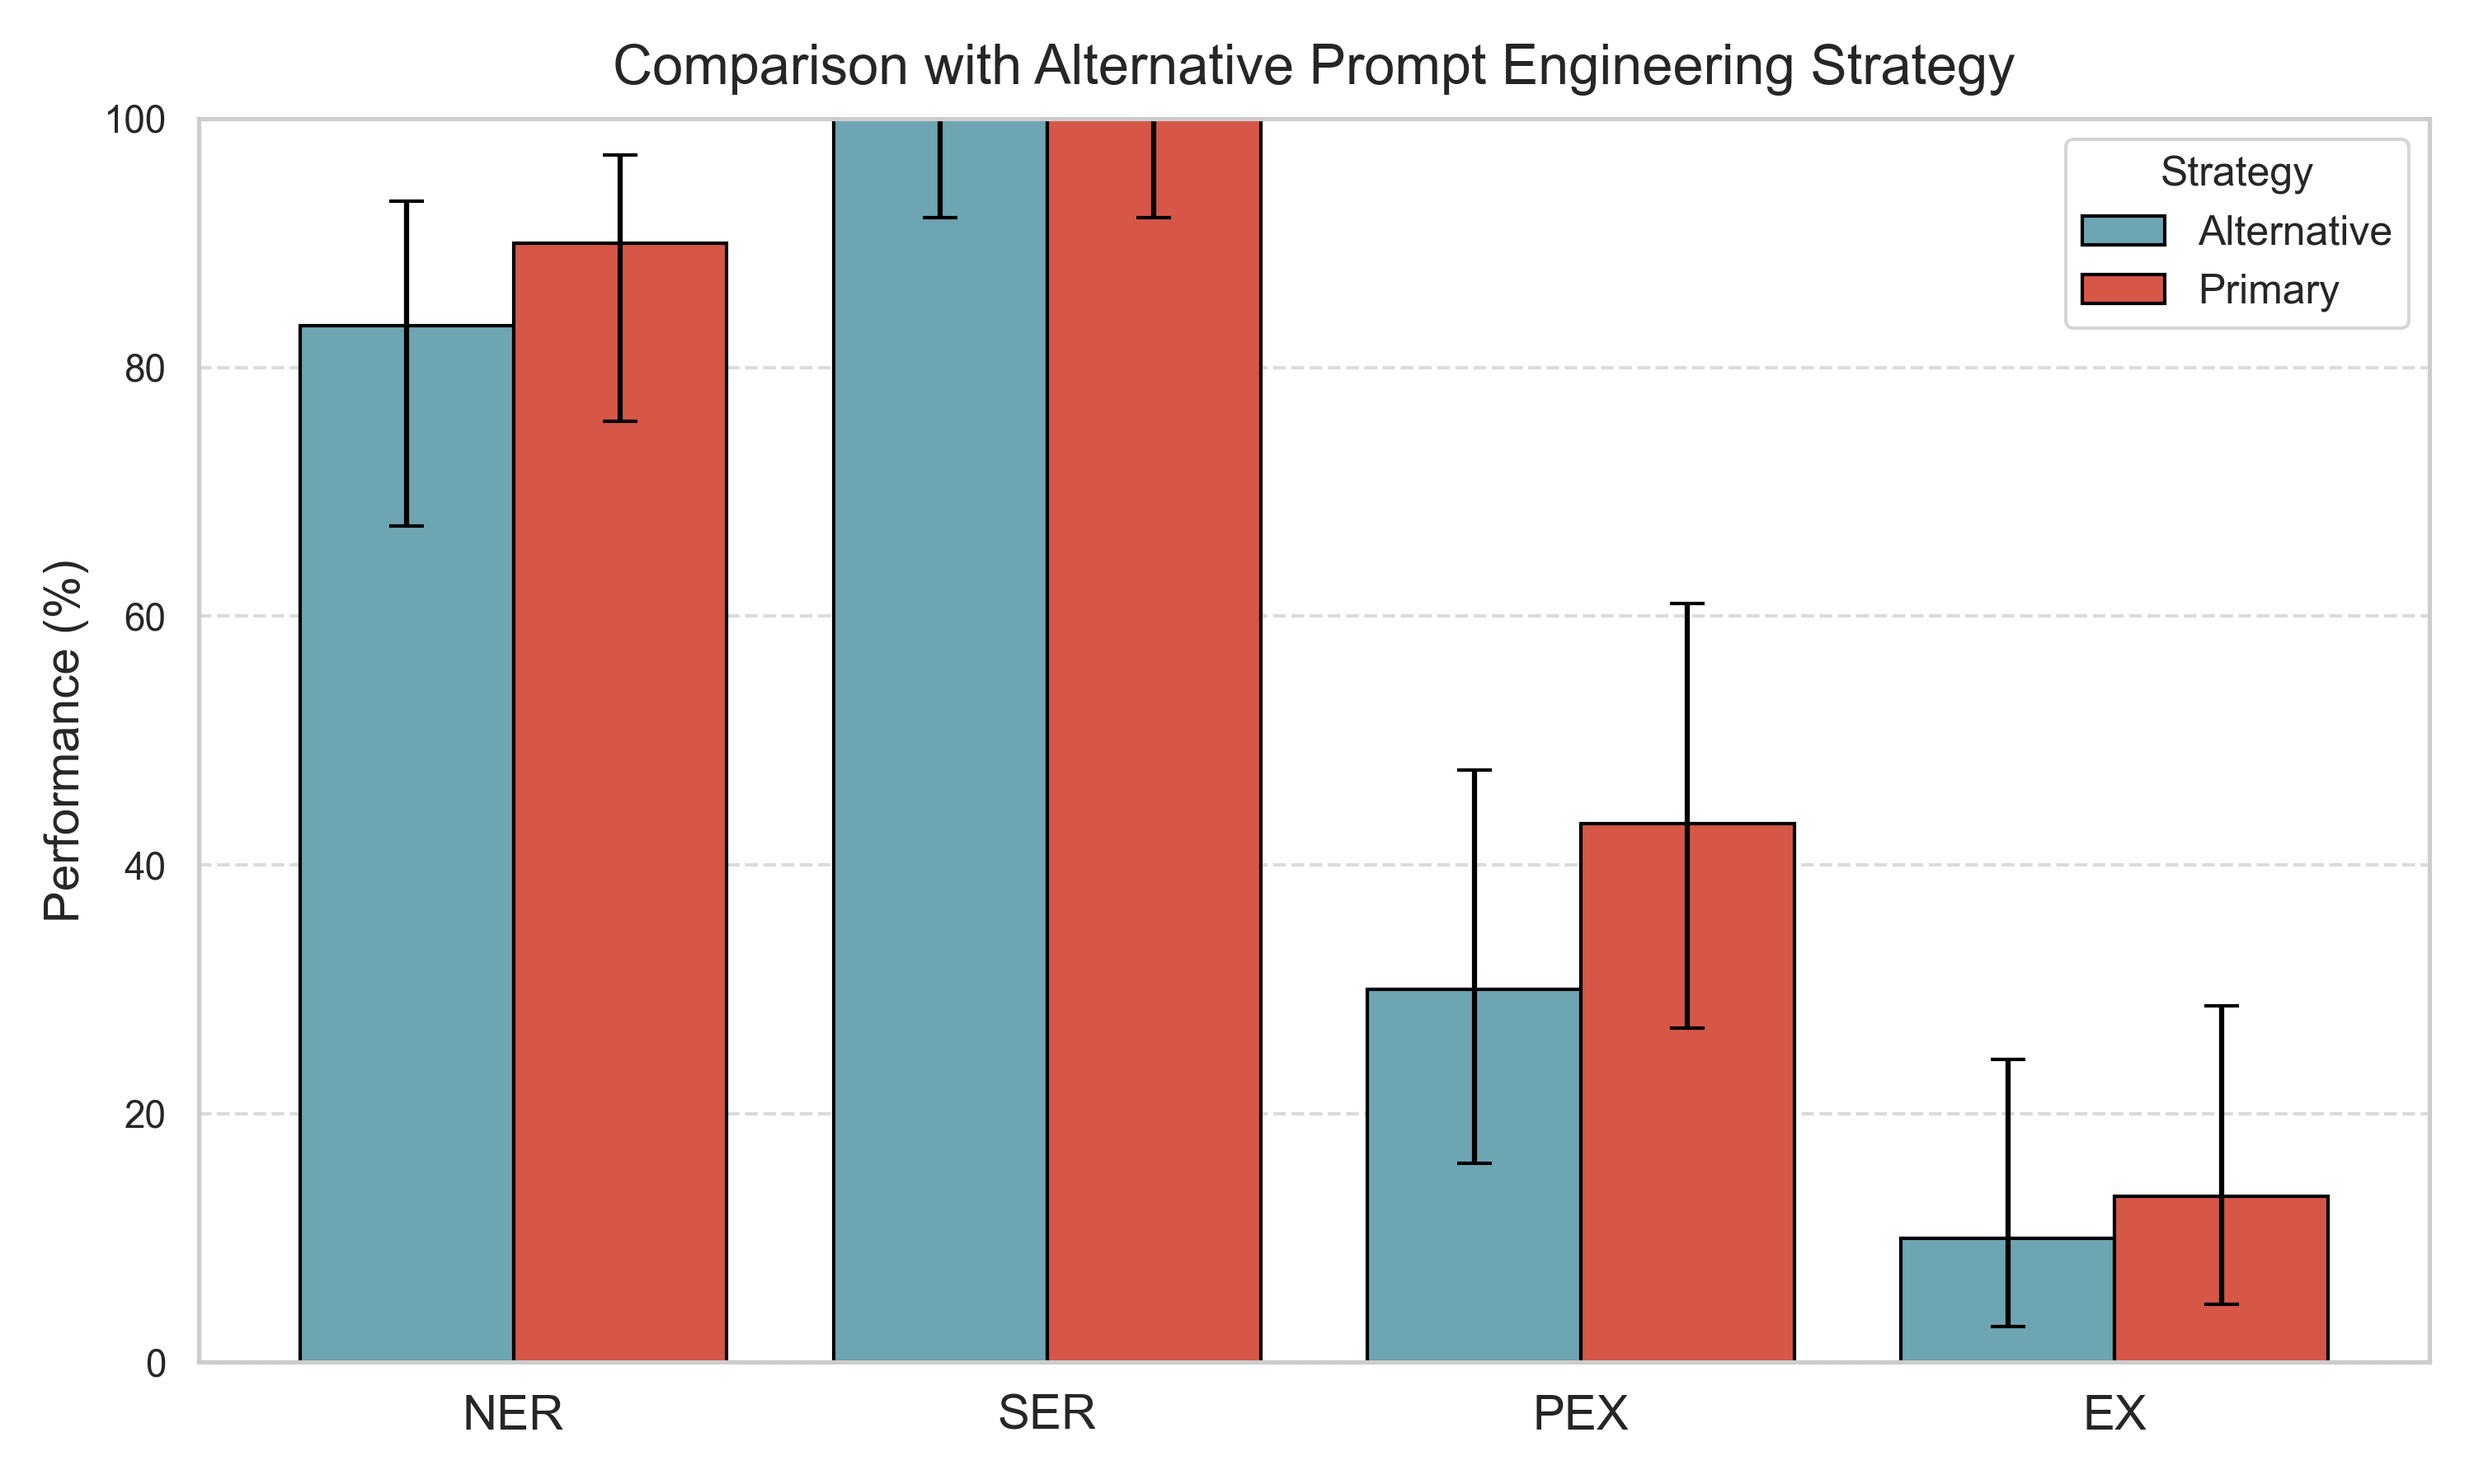
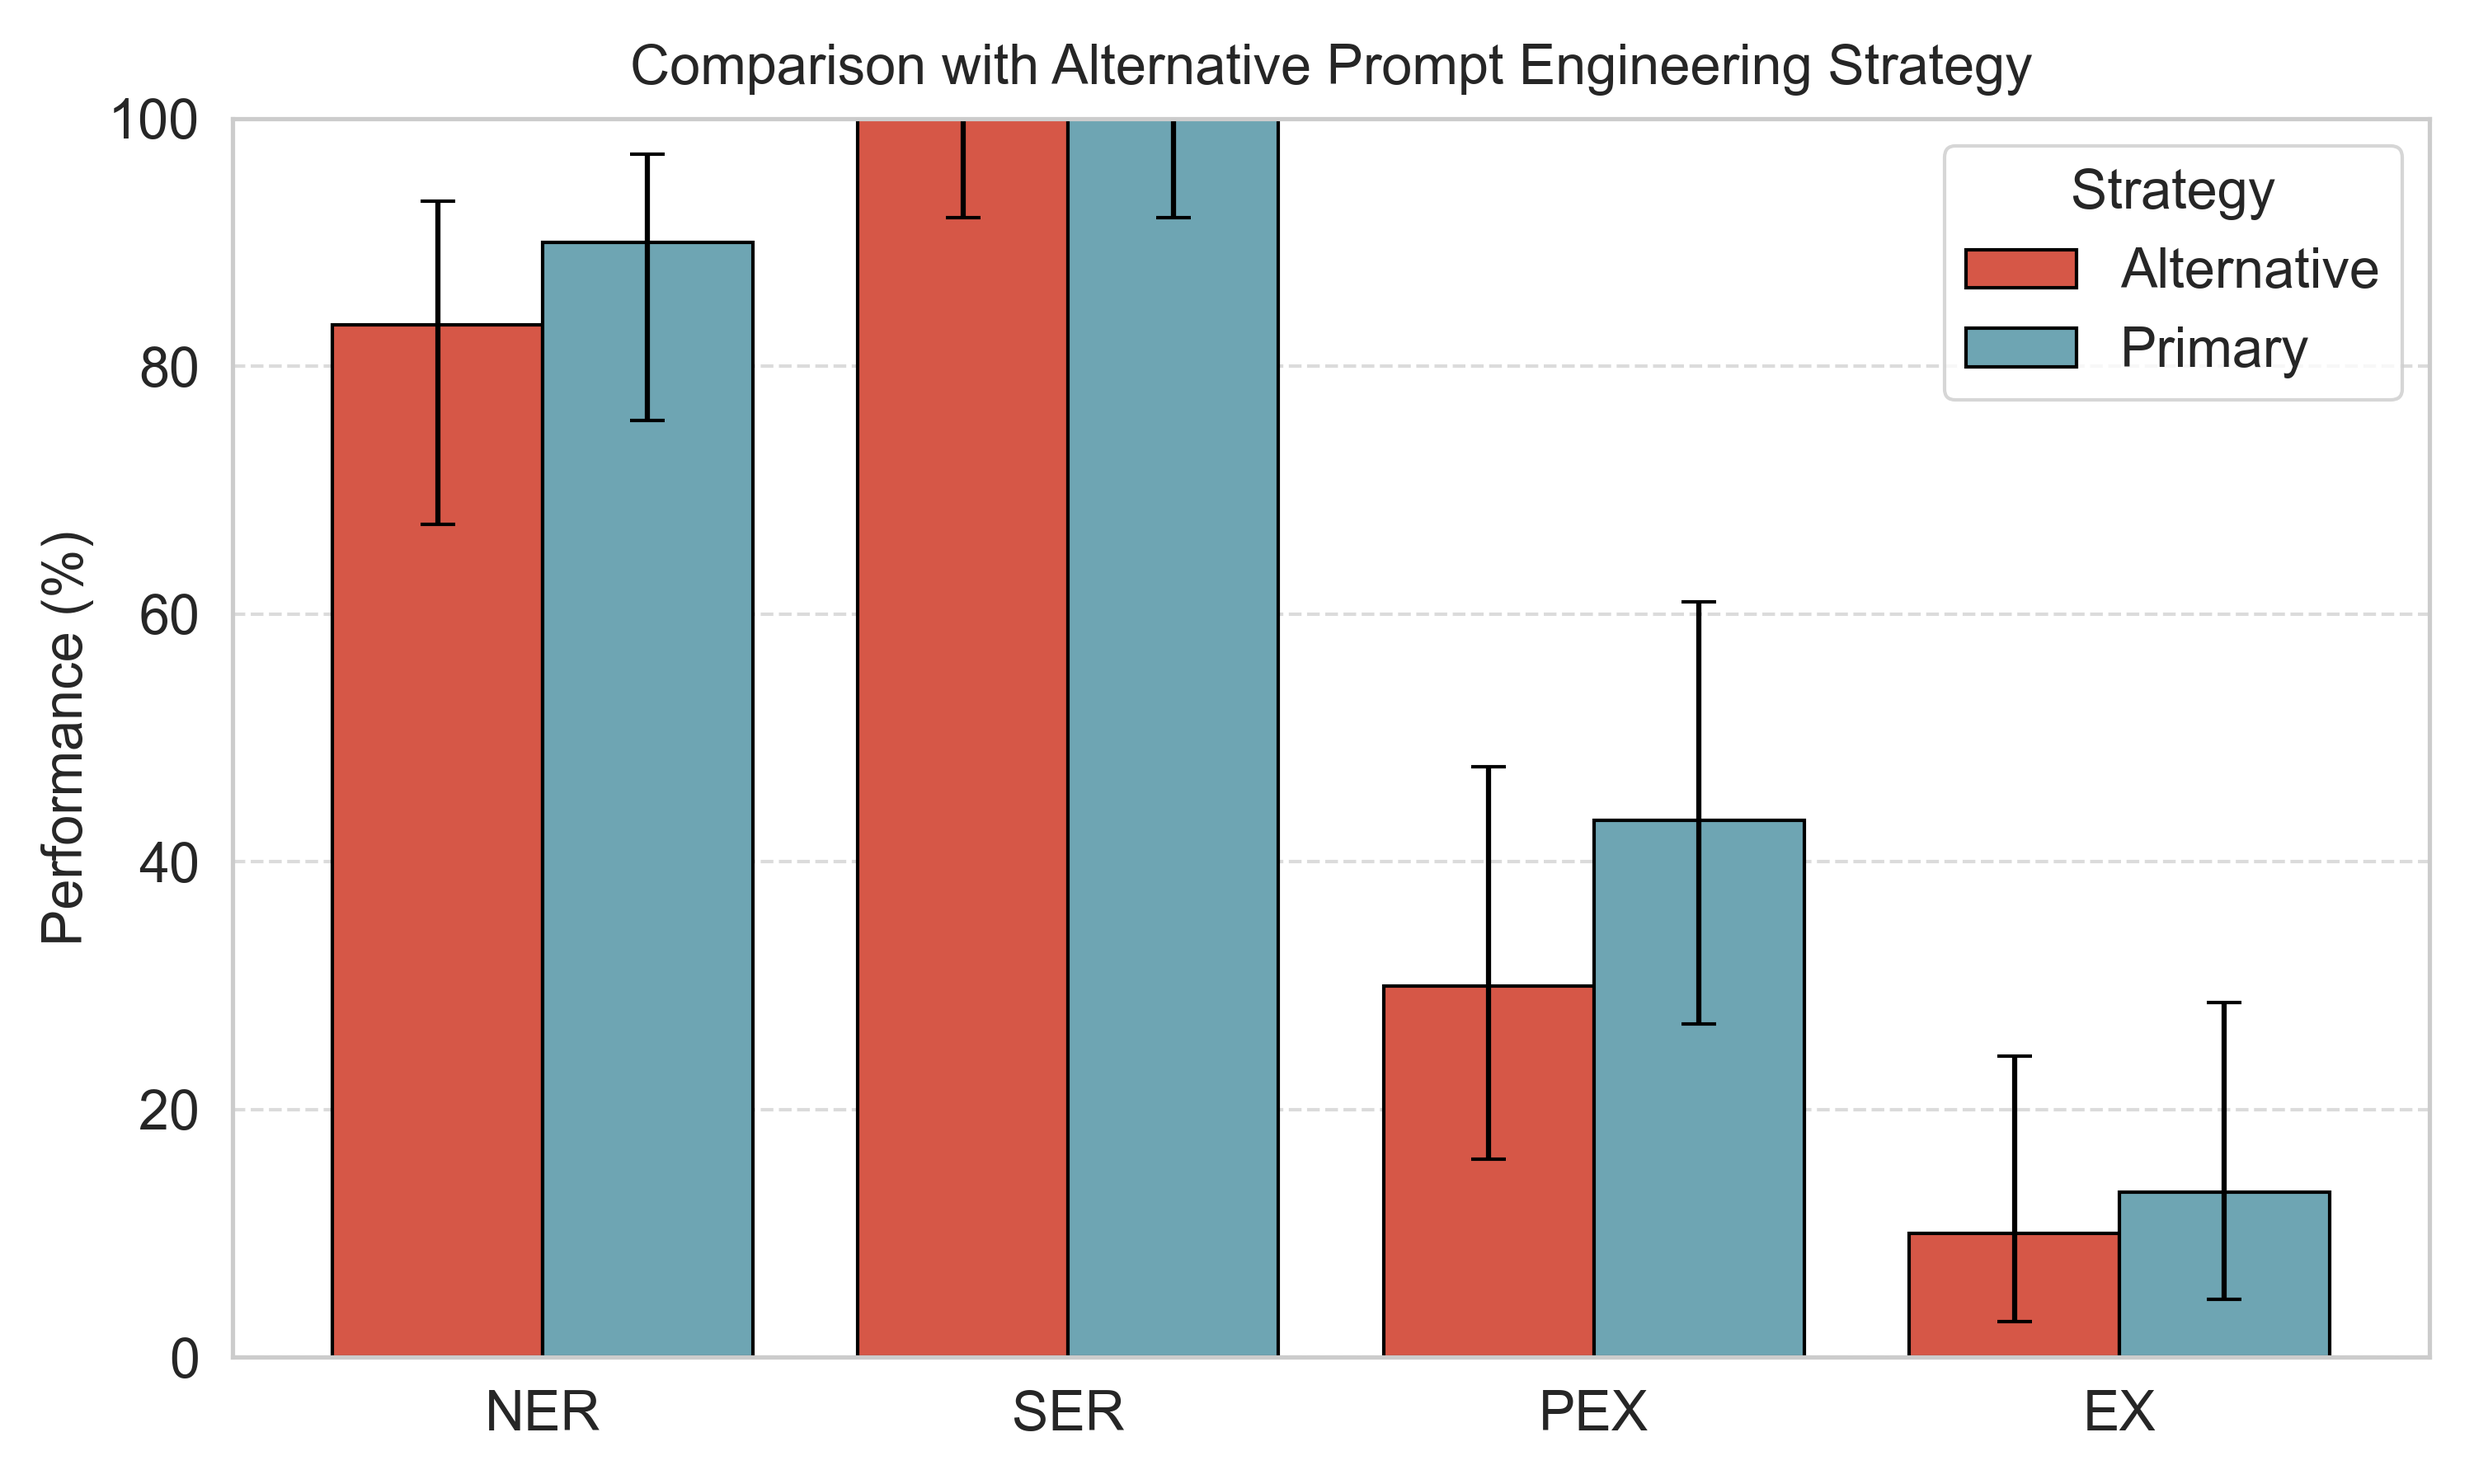
Make comparison fig more visible

diff --git a/Visualise/comparison/othercomparison.py b/Visualise/comparison/othercomparison.py
@@ -18,7 +18,7 @@ metrics = ["NER", "SER", "PEX", "EX"]
 n_trials = 30  # Number of trials
 
 # Performance values (in percentages)
-without_schema = np.array([83.33, 100.00, 30, 10])  # Replace with real data
+without_schema = np.array([83.33, 100.00, 30, 10])  
 with_schema = np.array([90.00, 100.00, 43.33, 13.33])  
 
 # Compute confidence intervals
@@ -38,7 +38,7 @@ df = pd.DataFrame({
     "Upper CI": np.concatenate([ci_without[:, 1], ci_with[:, 1]])
 })
 
-# Set Seaborn style for beauty ✨
+# Set Seaborn style
 sns.set(style="whitegrid", palette="pastel")
 
 # Create figure
@@ -47,30 +47,34 @@ fig, ax = plt.subplots(figsize=(10, 6))
 # Barplot with error bars
 sns.barplot(
     data=df, x="Metric", y="Performance", hue="Comparison", capsize=0.15, errwidth=2, 
-    ci=None, dodge=True, edgecolor="black", ax=ax, palette=["#63ACBE", "#EE442F"]
+    ci=None, dodge=True, edgecolor="black", ax=ax, palette=["#EE442F", "#63ACBE"]
 )
 
-# Add error bars manually (since Seaborn does not support CI input directly)
+# Add error bars manually
 for i in range(len(metrics)):
-    ax.errorbar(i - 0.2, without_schema[i], yerr=[[errors_without[0][i]], [errors_without[1][i]]], fmt='none', color='black', capsize=5, linewidth=1.5)
-    ax.errorbar(i + 0.2, with_schema[i], yerr=[[errors_with[0][i]], [errors_with[1][i]]], fmt='none', color='black', capsize=5, linewidth=1.5)
+    ax.errorbar(i - 0.2, without_schema[i], yerr=[[errors_without[0][i]], [errors_without[1][i]]], 
+                fmt='none', color='black', capsize=5, linewidth=1.5)
+    ax.errorbar(i + 0.2, with_schema[i], yerr=[[errors_with[0][i]], [errors_with[1][i]]], 
+                fmt='none', color='black', capsize=5, linewidth=1.5)
 
 # Labels and title
-ax.set_ylabel("Performance (%)", fontsize=14)
-ax.set_xlabel("")
+ax.set_ylabel("Performance (%)", fontsize=16)
+ax.set_xlabel("", fontsize=16)
 ax.set_title("Comparison with Alternative Prompt Engineering Strategy", fontsize=16, pad=10)
 ax.set_ylim(0, 100)  
-ax.legend(fontsize=12, title="Strategy")
+ax.legend(fontsize=16, title="Strategy", title_fontsize=16)
 
 # Beautify the grid
 ax.grid(axis='y', linestyle='--', alpha=0.7)
 
-ax.set_xticklabels(metrics, fontsize=14)
+# Adjust x-tick labels
+ax.set_xticklabels(metrics, fontsize=16)
+ax.tick_params(axis='y', labelsize=16)  # Set y-tick font size
 
+# Save and show the plot
 save_path = "Visualise/comparison/other_comparison.png"
 os.makedirs(os.path.dirname(save_path), exist_ok=True)
 
-# Show and save the plot
 plt.tight_layout()
 plt.savefig(save_path, dpi=300)
 plt.show()
